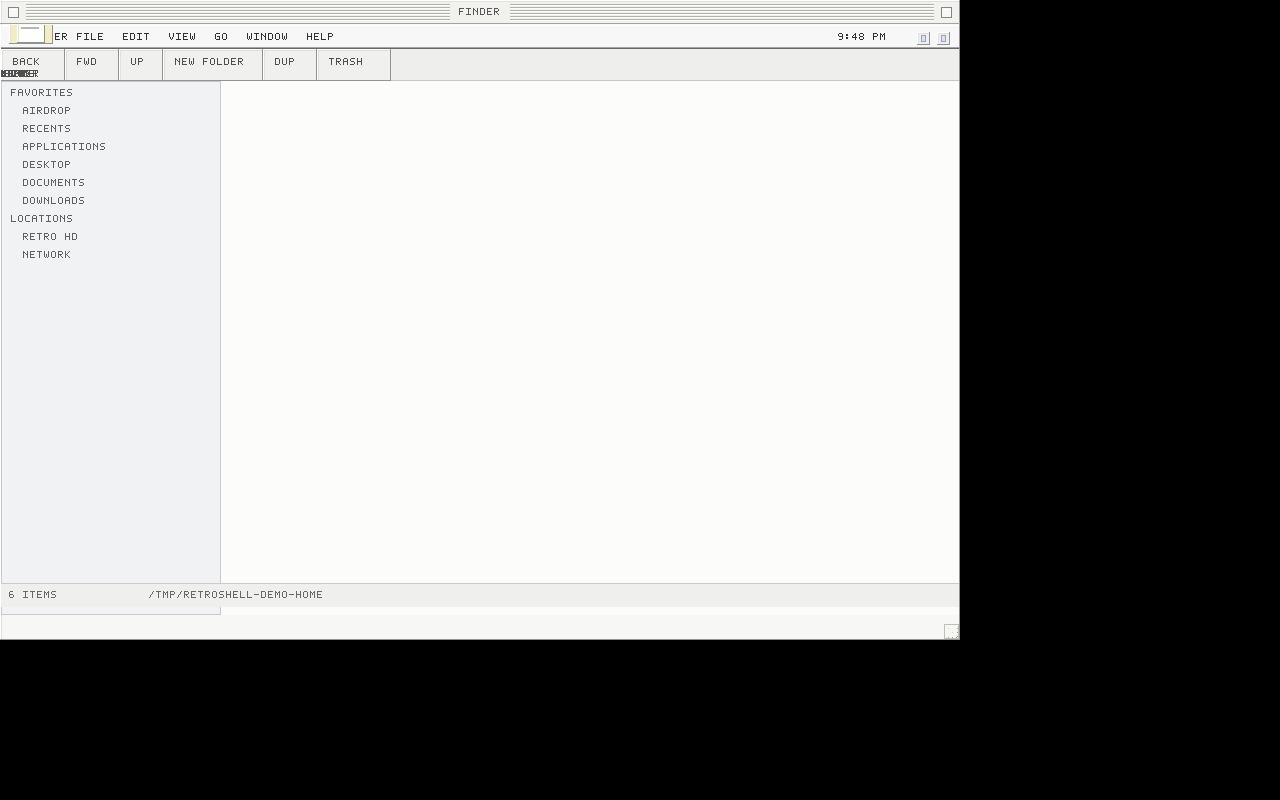
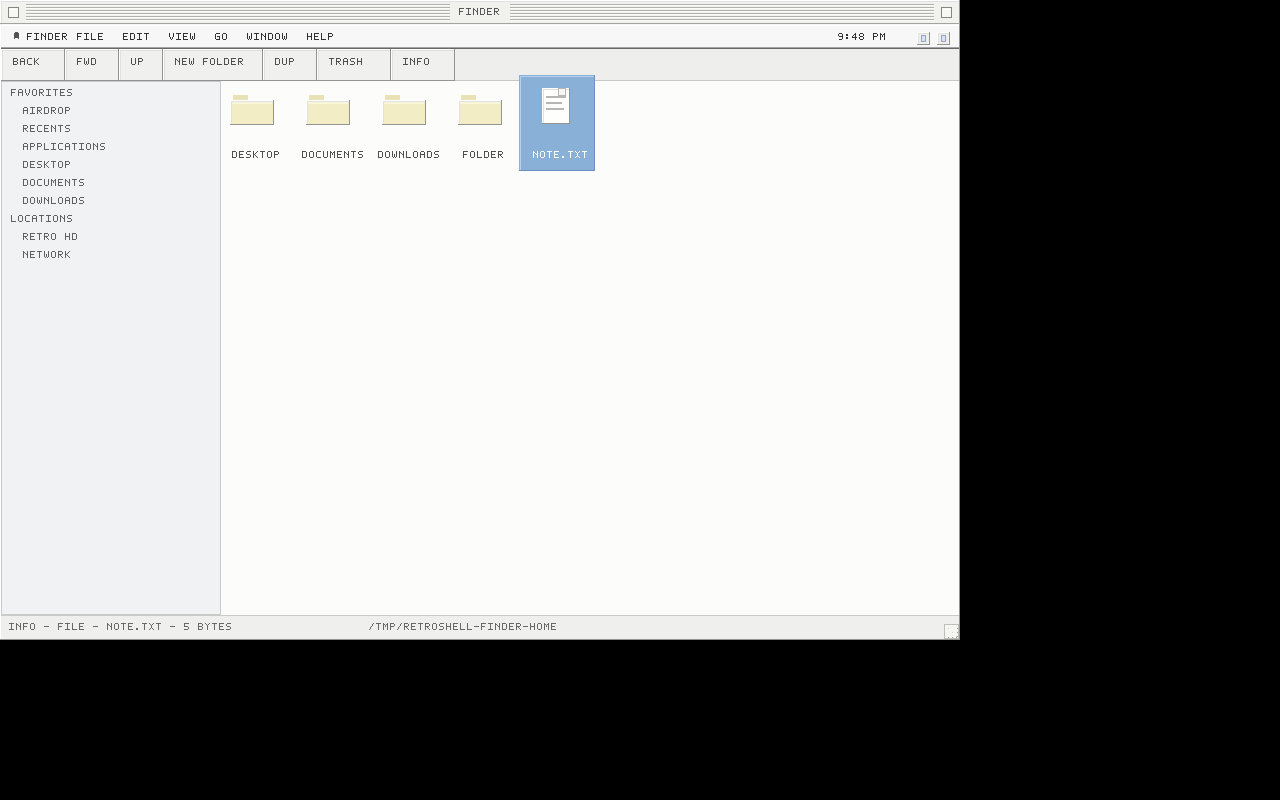
Add Finder Get Info status workflow

diff --git a/apps/finder/src/main.rs b/apps/finder/src/main.rs
@@ -154,6 +154,7 @@ pub struct FinderView {
     last_selected_path: Option<Vec<usize>>,
     back_stack: Vec<PathBuf>,
     forward_stack: Vec<PathBuf>,
+    info_text: Option<String>,
 }
 
 impl Default for FinderView {
@@ -195,6 +196,7 @@ impl FinderView {
         toolbar.add(Box::new(Button::new("NEW FOLDER")));
         toolbar.add(Box::new(Button::new("DUP")));
         toolbar.add(Box::new(Button::new("TRASH")));
+        toolbar.add(Box::new(Button::new("INFO")));
 
         let mut view = FinderView {
             state: WidgetState::new(),
@@ -206,12 +208,14 @@ impl FinderView {
             last_selected_path: None,
             back_stack: Vec::new(),
             forward_stack: Vec::new(),
+            info_text: None,
         };
         view.reload_directory();
         view
     }
 
     pub fn reload_directory(&mut self) {
+        self.info_text = None;
         self.file_grid.items.clear();
         if let Ok(mut entries) = file_ops::list_directory(&self.current_path) {
             entries.sort_by(|left, right| {
@@ -247,8 +251,9 @@ impl FinderView {
         } else {
             format!("{item_count} items")
         };
+        let summary = self.info_text.as_deref().unwrap_or(&count_text).to_string();
         self.status_bar
-            .add_item(&count_text, StatusBarAlignment::Left, 140.0);
+            .add_item(&summary, StatusBarAlignment::Left, 360.0);
         self.status_bar.add_item(
             &self.current_path.display().to_string(),
             StatusBarAlignment::Left,
@@ -338,6 +343,7 @@ impl FinderView {
             3 => self.create_new_folder(),
             4 => self.duplicate_selected(),
             5 => self.move_selected_to_trash(),
+            6 => self.show_selected_info(),
             _ => false,
         }
     }
@@ -379,6 +385,33 @@ impl FinderView {
             true
         } else {
             false
+        }
+    }
+
+    fn show_selected_info(&mut self) -> bool {
+        let Some(path) = self.selected_path() else {
+            self.info_text = Some("INFO - NO SELECTION".to_string());
+            self.refresh_status_bar();
+            return false;
+        };
+
+        match file_ops::get_file_info(&path) {
+            Ok(info) => {
+                let kind = if info.is_dir { "FOLDER" } else { "FILE" };
+                let size = if info.is_dir {
+                    "FOLDER".to_string()
+                } else {
+                    format!("{} BYTES", info.size)
+                };
+                self.info_text = Some(format!("INFO - {kind} - {} - {size}", info.name));
+                self.refresh_status_bar();
+                true
+            }
+            Err(err) => {
+                self.info_text = Some(format!("INFO FAILED - {err}"));
+                self.refresh_status_bar();
+                false
+            }
         }
     }
 
@@ -444,8 +477,12 @@ impl Widget for FinderView {
             .file_grid
             .layout(LayoutConstraint::tight(Size::new(grid_w, content_h)));
 
-        self.status_bar
-            .set_rect(Rect::new(r.x, r.y + content_h, r.width, status_h));
+        self.status_bar.set_rect(Rect::new(
+            r.x,
+            r.y + toolbar_h + content_h,
+            r.width,
+            status_h,
+        ));
         let _ = self
             .status_bar
             .layout(LayoutConstraint::tight(Size::new(r.width, status_h)));
@@ -491,6 +528,10 @@ impl Widget for FinderView {
                         self.duplicate_selected();
                         return EventResult::Handled;
                     }
+                    KeyCode::I => {
+                        self.show_selected_info();
+                        return EventResult::Handled;
+                    }
                     _ => {}
                 }
             } else if *key == KeyCode::Enter {
@@ -523,8 +564,12 @@ impl Widget for FinderView {
 
         let mut result = self.sidebar.handle_event(event);
         if let EventResult::Ignored = result {
+            let previous_selection = self.selected_path();
             result = self.file_grid.handle_event(event);
             if matches!(result, EventResult::Handled) {
+                if self.selected_path() != previous_selection {
+                    self.info_text = None;
+                }
                 self.refresh_status_bar();
             }
         }
@@ -782,5 +827,76 @@ mod tests {
             .any(|item| item.label == "note copy.txt"));
 
         fs::remove_dir_all(root).unwrap();
+    }
+
+    #[test]
+    fn finder_get_info_reports_selected_file_metadata() {
+        let root = temp_finder_root();
+        fs::create_dir_all(&root).unwrap();
+        fs::write(root.join("note.txt"), "hello").unwrap();
+
+        let mut view = FinderView::new();
+        view.set_current_path(root.clone());
+        view.layout(LayoutConstraint::tight(Size::new(960.0, 640.0)));
+        let note = view
+            .file_grid
+            .items
+            .iter_mut()
+            .find(|item| item.label == "note.txt")
+            .expect("note is listed");
+        note.selected = true;
+
+        let handled = view.handle_event(&Event::KeyDown {
+            key: KeyCode::I,
+            modifiers: Modifiers {
+                meta: true,
+                ..Modifiers::NONE
+            },
+        });
+
+        assert!(matches!(handled, EventResult::Handled));
+        assert_eq!(
+            view.status_bar.items[0].text,
+            "INFO - FILE - note.txt - 5 BYTES"
+        );
+
+        fs::remove_dir_all(root).unwrap();
+    }
+
+    #[test]
+    fn finder_toolbar_info_uses_same_metadata_status() {
+        let root = temp_finder_root();
+        fs::create_dir_all(&root).unwrap();
+        fs::create_dir_all(root.join("Folder")).unwrap();
+
+        let mut view = FinderView::new();
+        view.set_current_path(root.clone());
+        view.layout(LayoutConstraint::tight(Size::new(960.0, 640.0)));
+        let folder = view
+            .file_grid
+            .items
+            .iter_mut()
+            .find(|item| item.label == "Folder")
+            .expect("folder is listed");
+        folder.selected = true;
+
+        let handled = click_toolbar_button(&mut view, 6);
+
+        assert!(matches!(handled, EventResult::Handled));
+        assert_eq!(
+            view.status_bar.items[0].text,
+            "INFO - FOLDER - Folder - FOLDER"
+        );
+
+        fs::remove_dir_all(root).unwrap();
+    }
+
+    #[test]
+    fn finder_status_bar_sits_below_content() {
+        let mut view = FinderView::new();
+
+        view.layout(LayoutConstraint::tight(Size::new(960.0, 640.0)));
+
+        assert_eq!(view.status_bar.rect().y, 616.0);
     }
 }

diff --git a/STATUS.md b/STATUS.md
@@ -2,33 +2,31 @@
 
 ## Summary
 
-RetroShell is a working native Rust prototype, not a complete desktop environment yet. Current work has a `wgpu` rendered shell window, Classic-inspired desktop surface, interactive menu bar, desktop icons, first-party app foundations, and managed Finder-style shell windows with focus/raise, active-window close, titlebar close/zoom controls, View-menu fullscreen, drag, resize, desktop folder icons opening filesystem-backed shell windows, and child folder windows from managed shell windows.
+RetroShell is a working native Rust prototype, not a complete desktop environment yet. Current work has a `wgpu` rendered shell window, Classic-inspired desktop surface, interactive menu bar, desktop icons, first-party app foundations, managed Finder-style shell windows, focus/raise behavior, active-window close, titlebar close/zoom controls, View-menu fullscreen, drag, resize, desktop folder icons opening filesystem-backed shell windows, and child folder windows managed by the shell.
 
-Finder has sidebar/icon-grid foundations, sorted directory listing, status/path bar, visible Back/Forward/Up controls, folder entry, parent-folder navigation, back/forward history, visible New Folder/Duplicate/Trash controls, and file operation helpers.
+Finder has sidebar/icon-grid foundations, sorted directory listing, status/path bar, visible Back/Forward/Up controls, folder entry, parent-folder navigation, back/forward history, visible New Folder/Duplicate/Trash controls, file operation helpers, and a working Get Info path through Cmd-I and the `INFO` toolbar button. The VM-smoked UI shows selected-file metadata in the status bar.
 
-TextEdit has real document flow and editing foundations: open an optional document path, edit native multiline text, save to disk, New/Save toolbar actions, Cmd-N/Cmd-S, saved/edited status, undo/redo history, and baseline whole-document copy/cut/paste/select-all.
+TextEdit has real document-flow foundations: open an optional document path, edit native multiline text, save to disk, New/Save toolbar actions, Cmd-N/Cmd-S, saved/edited status, undo/redo history, and baseline whole-document copy/cut/paste/select-all.
 
-Settings has its first real persistent workflow: Light/Dark/System appearance controls load and save `settings.conf` under `RETROSHELL_CONFIG_DIR` or `~/.config/retroshell`, and the VM smoke verifies Dark mode preference persistence.
+Settings has the first persistent workflow: Light/Dark/System appearance controls load and save `settings.conf` under `RETROSHELL_CONFIG_DIR` or `~/.config/retroshell`, and VM smoke verifies Dark mode preference persistence.
 
-Native dark mode has a first real runtime path: RetroSDK reads the same `settings.conf` preference and renders shared window chrome, menus, labels, buttons, text fields, lists, sidebars, split panels, toolbars, and status bars with dark-aware colors.
+Native dark mode has its first runtime path: RetroSDK reads the same `settings.conf` preference and renders shared window chrome, menus, labels, buttons, text fields, lists, sidebars, split panels, toolbars, and status bars with dark-aware colors.
 
-Terminal has a real PTY-backed output path with async repaint, resize propagation, scrollback navigation, and baseline Cmd-C/Cmd-V clipboard behavior.
+Terminal has a real PTY-backed output path, async repaint, resize propagation, scrollback navigation, and baseline Cmd-C/Cmd-V clipboard behavior.
 
-App Store has a first native package-manager backed workflow: it detects host Linux/BSD package managers and runs read-only package searches against the detected backend.
+App Store has the first native package-manager backed workflow: it detects host Linux/BSD package managers and runs read-only package searches against the detected backend.
 
-Definition of done remains a full desktop environment: working Finder, TextEdit, Settings, Terminal, package-manager backed App Store, native dark mode, compositor/session path, HDR, VRR, and real application/game validation including Doom video evidence with audio.
+Definition of done remains a full desktop environment: working Finder, TextEdit, Settings, Terminal, package-manager backed App Store, native dark mode, compositor/session path, HDR, VRR, and Doom video evidence with audio in windowed, borderless fullscreen, and exclusive fullscreen modes. That is not complete yet.
 
-## Workspace
+## Component Status
 
-| Crate/App | Path | Status |
-|-----------|------|--------|
-| retro-render | `crates/retro-render/` | Prototype: native `wgpu` rendering works; text, clipping, compositor/display features, HDR, VRR remain incomplete. |
-| retro-kit | `crates/retro-kit/` | Prototype: core widget layout exists; polished accessibility, drag/drop, focus visuals, menus, theme coverage remain incomplete. |
+| Component | Path | Status |
+| --- | --- | --- |
 | retro-shell | `crates/retro-shell/` | Prototype: rendered desktop, menu bar, shell services, managed shell windows, close, zoom, fullscreen, drag, resize, desktop folder icon launch, and child folder opening exist; focus visuals, minimize, sessions, app lifecycle, compositor integration remain incomplete. |
 | retro-bus | `crates/retro-bus/` | Foundation: local transport primitives exist; broader service integration remains incomplete. |
-| retro-sdk | `crates/retro-sdk/` | First-party app runtime works for basic windows/menus/widgets, repaints after async widget updates, and consumes `appearance=dark` for shared native rendering; app lifecycle, dialogs, platform clipboard, platform services, complete theme tokens, and polished text rendering remain incomplete. |
-| Finder | `apps/finder/` | In progress: navigation history, visible navigation controls, and file operation helpers exist; contextual menus, drag/drop, trash polish, desktop integration, and multi-window workflows remain incomplete. |
-| Settings | `apps/settings/` | In progress: persistent Light/Dark/System appearance preference works and the SDK consumes it for native dark rendering; broader settings panes, input/display controls, HDR/VRR controls remain incomplete. |
+| retro-sdk | `crates/retro-sdk/` | First-party app runtime works for basic windows/menus/widgets, repaints async widget updates, consumes `appearance=dark` shared native rendering; app lifecycle, dialogs, platform clipboard, platform services, complete theme tokens, and polished text rendering remain incomplete. |
+| Finder | `apps/finder/` | In progress: navigation history, visible navigation controls, file operation helpers, and Get Info status metadata exist; contextual menus, drag/drop, trash polish, desktop integration, and multi-window workflows remain incomplete. |
+| Settings | `apps/settings/` | In progress: persistent Light/Dark/System appearance preference works and SDK consumes it for native dark rendering; broader settings panes, input/display controls, HDR/VRR controls remain incomplete. |
 | TextEdit | `apps/textedit/` | In progress: opens optional document path, edits text, saves existing files, tracks dirty state, supports undo/redo and baseline whole-document clipboard commands; Save As, file dialogs, selection UI, platform clipboard, and text wrapping/scrolling polish remain incomplete. |
 | Terminal | `apps/terminal/` | In progress: PTY launch/output, resize propagation, scrollback navigation, and baseline clipboard shortcuts work; selection UI, persistent sessions, robust shell lifecycle, and polished tabs remain incomplete. |
 | App Store | `apps/appstore/` | In progress: detects APT/DNF/Pacman/pkg/apk/zypper/brew, runs read-only package searches, and renders results; install/remove/update flows, privilege prompts, and transaction logs remain incomplete. |
@@ -37,25 +35,25 @@ Definition of done remains a full desktop environment: working Finder, TextEdit,
 
 - `cargo fmt --all -- --check`
 - `cargo check --workspace --all-targets`
-- `cargo test --workspace -q` (65 tests)
+- `cargo test --workspace -q` (68 tests)
 - `cargo clippy --workspace --all-targets -- -D warnings`
-- Linux VM/Xvfb/Mesa Vulkan llvmpipe smoke: `retro-shell` starts 1280x800, accepts pointer interaction, toggles active Finder-style managed shell window into fullscreen through the View menu, opens Home into a managed folder window, opens a child folder inside the initial managed folder window, and captures `docs/screenshots/current-retroshell-desktop.png`.
-- Linux VM/Xvfb/Mesa Vulkan llvmpipe smoke: `finder` starts against a demo home directory, renders visible Back/Forward/Up and file-operation controls, creates New Folder from the toolbar, refreshes path/status display, and captures `docs/screenshots/current-finder.png`.
-- Linux VM/Xvfb/Mesa Vulkan llvmpipe smoke: `textedit` opens a document path, renders edit controls, and captures `docs/screenshots/current-textedit.png`.
+- Linux VM/Xvfb/Mesa Vulkan llvmpipe smoke: `retro-shell` renders the desktop, handles menu interaction/window controls/drag/resize/fullscreen, opens a managed folder window, and captures `docs/screenshots/current-retroshell-desktop.png`.
+- Linux VM/Xvfb smoke: `finder` starts against a demo home directory, selects `note.txt`, triggers the `INFO` toolbar action, renders `INFO - FILE - NOTE.TXT - 5 BYTES` in the status bar, and captures `docs/screenshots/current-finder.png`.
+- Linux VM/Xvfb smoke: `textedit` opens a document path, renders edit controls, and captures `docs/screenshots/current-textedit.png`.
 - Linux VM/Xvfb/Mesa Vulkan llvmpipe smoke: `settings` clicks Dark appearance, verifies `appearance=dark`, renders selected mode/status UI, and captures `docs/screenshots/current-settings.png`.
 - Linux VM/Xvfb/Mesa Vulkan llvmpipe smoke: `settings` launches with `appearance=dark`, renders dark native chrome/controls, and captures `docs/screenshots/current-dark-mode-settings.png`.
-- Linux VM/Xvfb/Mesa Vulkan llvmpipe smoke: `terminal` launches a PTY-backed shell script, consumes async output, renders live terminal text, and captures `docs/screenshots/current-terminal.png`.
-- Linux VM/Xvfb/Mesa Vulkan llvmpipe smoke: `appstore` detects APT, searches for `doom`, renders package-manager results, and captures `docs/screenshots/current-appstore.png`.
+- Linux VM/Xvfb smoke: `terminal` launches a PTY-backed shell script, consumes async output, renders live terminal text, and captures `docs/screenshots/current-terminal.png`.
+- Linux VM/Xvfb smoke: `appstore` detects APT, searches for `doom`, renders package-manager results, and captures `docs/screenshots/current-appstore.png`.
 
 ## Next Milestones
 
 1. Finish shell window management: focus rings, multiple real app surfaces, minimize controls, modal dialogs, persisted placement.
-2. Make Finder real: add contextual menus, drag/drop, trash UI polish, desktop integration, polished multi-window workflows.
+2. Make Finder real: contextual menus, drag/drop, trash UI polish, desktop integration, polished multi-window workflows.
 3. Make TextEdit real: Save As/file dialogs, selection UI, platform clipboard, text wrapping/scrolling polish.
 4. Make Terminal robust: selection UI, platform clipboard, shell lifecycle handling, tab controls, scrollback UI, shell session persistence.
 5. Make Settings persistent beyond appearance: input, display, package-manager settings, future HDR/VRR controls.
-6. Add App Store: package manager install/remove/update flows, privilege prompts, transaction logs.
+6. Finish App Store package manager flows: install/remove/update, privilege prompts, transaction logs, backend-specific error handling.
 7. Finish native dark mode: end-to-end token coverage, live switching polish, app-specific asset/icon compliance, contrast validation.
-8. Build compositor/session path: Wayland session behavior, external app surfaces, multi-monitor, HiDPI, input methods, clipboard, accessibility.
-9. Add display targets: HDR metadata/color pipeline and VRR frame pacing.
-10. Produce release evidence: video with audio of Doom in windowed, borderless fullscreen, and exclusive fullscreen modes.
+8. Build compositor/session path: Wayland session behavior, external app surfaces, multi-monitor, HiDPI, startup integration.
+9. Build display pipeline goals: HDR metadata/color pipeline, VRR frame pacing, fullscreen mode policy.
+10. Produce release evidence: Doom running with audio/video in windowed, borderless fullscreen, and exclusive fullscreen modes.

diff --git a/README.md b/README.md
@@ -18,13 +18,13 @@ Every major UI/UX change should refresh current screenshots. Screenshots live in
 
 ### Current Implementation
 
-Captured from a Linux VM/Xvfb/Mesa smoke run after the native `wgpu` desktop filled a 1280x800 surface, accepted menu and pointer interaction, rendered original desktop icons, opened managed Finder-style shell windows, opened desktop folders into filesystem-backed shell windows, opened child folder windows from managed shell windows, raised/focused windows, closed active windows, used titlebar close/zoom controls, toggled fullscreen through the View menu, dragged/resized windows, and rendered the grow box.
+Captured from a Linux VM/Xvfb/Mesa smoke run after the native `wgpu` desktop filled a 1280x800 surface, accepted menu pointer interaction, rendered desktop icons, opened managed Finder-style shell windows, opened folder-backed shell windows, raised/focused windows, closed active windows, used titlebar close/zoom controls, toggled fullscreen through the View menu, dragged/resized windows, and rendered the grow box.
 
 ![Current RetroShell desktop](docs/screenshots/current-retroshell-desktop.png)
 
 ### Finder
 
-Captured from a Linux VM/Xvfb smoke run against a demo home directory after Finder rendered status/path display, sorted directory contents, folder entry, visible Back/Forward/Up controls, visible New Folder/Duplicate/Trash controls, navigation history, and New Folder from the toolbar.
+Captured from a Linux VM/Xvfb smoke run against a demo home directory. Finder rendered sidebar/icon-grid browsing, sorted directory contents, status/path display, navigation controls, file-operation toolbar controls, and the `INFO` toolbar action showing selected-file metadata.
 
 ![Current Finder app](docs/screenshots/current-finder.png)
 
@@ -36,39 +36,39 @@ Captured from a Linux VM/Xvfb smoke run after TextEdit opened a real document pa
 
 ### Settings
 
-Captured from a Linux VM/Xvfb smoke run after Settings clicked the Dark appearance control, persisted `appearance=dark`, and refreshed the selected mode/status UI.
+Captured from a Linux VM/Xvfb smoke run after Settings clicked the Dark appearance control, persisted `appearance=dark`, and rendered the selected mode/status UI.
 
 ![Current Settings app](docs/screenshots/current-settings.png)
 
 ### Native Dark Mode
 
-Captured from a Linux VM/Xvfb smoke run after the SDK read `appearance=dark` from `settings.conf` and rendered Settings with dark window chrome, menus, controls, lists, and text surfaces.
+Captured from a Linux VM/Xvfb/Mesa smoke run after launching Settings with `appearance=dark`; RetroSDK rendered shared native chrome and controls with dark-aware colors.
 
 ![Current dark mode Settings app](docs/screenshots/current-dark-mode-settings.png)
 
 ### Terminal
 
-Captured from a Linux VM/Xvfb smoke run after Terminal launched a real PTY-backed shell script, consumed asynchronous output, repainted the native terminal surface, and rendered the live output.
+Captured from a Linux VM/Xvfb smoke run after Terminal launched a real PTY-backed shell script, consumed asynchronous output, repainted the native terminal surface, and rendered live output.
 
 ![Current Terminal app](docs/screenshots/current-terminal.png)
 
 ### App Store
 
-Captured from a Linux VM/Xvfb smoke run after App Store detected the host `APT` backend, ran a real package-manager search for `doom`, and rendered package results.
+Captured from a Linux VM/Xvfb smoke run after App Store detected the host `APT` backend, ran a real read-only package-manager search for `doom`, and rendered package results.
 
 ![Current App Store app](docs/screenshots/current-appstore.png)
 
 ## Current State
 
-RetroShell currently builds and launches a native rendered desktop surface, menu strip, desktop icons, app bundle labels, first-party apps wired through RetroKit/RetroSDK, and first-pass managed shell windows with close, zoom, fullscreen, drag, and resize behavior. Desktop Home/Hard Disk/Trash icons open folder-backed shell windows, and folder icons inside managed shell windows open child folder windows.
+RetroShell currently builds and launches a native rendered desktop surface with a menu strip, desktop icons, app bundle labels, first-party apps wired through RetroKit/RetroSDK, and first-pass managed shell window close, zoom, fullscreen, drag, and resize behavior. Desktop Home/Hard Disk/Trash icons open folder-backed shell windows, and folder icons inside managed shell windows open child folder windows.
 
-Finder has directory listing, folder entry, visible navigation controls, parent navigation, back/forward history, file-operation toolbar controls, New Folder/Duplicate/Trash helpers, and VM-smoked path/status display.
+Finder has sidebar/icon-grid browsing, sorted directory listing, folder entry, parent navigation, back/forward history, file-operation toolbar controls, New Folder/Duplicate/Trash helpers, VM-smoked path/status display, and a working `INFO` action that reports selected file/folder metadata in the status bar.
 
-TextEdit opens an optional document path passed on the command line, edits through a native multiline text field, saves back to disk, supports Cmd-N/Cmd-S, supports Cmd-Z/Shift-Cmd-Z undo/redo, exposes baseline whole-document copy/cut/paste/select-all shortcuts, and shows toolbar actions for New/Save/Undo/Redo/Copy/Paste.
+TextEdit opens an optional document path passed on the command line, edits through the native multiline text field, saves back to disk, supports Cmd-N/Cmd-S, supports Cmd-Z/Shift-Cmd-Z undo/redo, exposes baseline whole-document copy/cut/paste/select-all shortcuts, and shows toolbar actions for New/Save/Undo/Redo/Copy/Paste.
 
-Settings loads and saves `settings.conf` under `RETROSHELL_CONFIG_DIR` or `~/.config/retroshell`, exposes Light/Dark/System controls, persists changes immediately, and reports the active mode. The SDK consumes that same preference and renders shared native chrome/controls with a dark appearance when `appearance=dark`.
+Settings loads and saves `settings.conf` under `RETROSHELL_CONFIG_DIR` or `~/.config/retroshell`, exposes Light/Dark/System controls, persists changes immediately, and reports the active mode. RetroSDK consumes the same preference and renders shared native chrome/controls in dark appearance when `appearance=dark`.
 
-Terminal launches a real PTY, propagates layout resize to the terminal grid and PTY, consumes async PTY output with runtime repaint, supports scrollback navigation, and wires Cmd-C/Cmd-V to the in-process clipboard baseline.
+Terminal launches a real PTY, propagates layout resize to the terminal grid and PTY, consumes async PTY output through runtime repaint, supports scrollback navigation, and wires Cmd-C/Cmd-V to the in-process clipboard baseline.
 
 App Store launches as a first-party app, detects Linux/BSD package managers, and runs read-only package searches through the detected backend. Install/remove/update transactions and privilege handling remain future work.
 
@@ -78,15 +78,15 @@ This is still foundation work, not a polished full desktop environment.
 
 - `cargo fmt --all -- --check`
 - `cargo check --workspace --all-targets`
-- `cargo test --workspace -q` (65 tests)
+- `cargo test --workspace -q` (68 tests)
 - `cargo clippy --workspace --all-targets -- -D warnings`
-- Linux VM/Xvfb/Mesa smoke: `retro-shell` starts at 1280x800 and captures `docs/screenshots/current-retroshell-desktop.png`.
-- Linux VM/Xvfb/Mesa smoke: `finder` starts against a demo home directory, creates New Folder from the toolbar, refreshes path/status display, and captures `docs/screenshots/current-finder.png`.
-- Linux VM/Xvfb/Mesa smoke: `textedit` opens a document path, renders edit controls, and captures `docs/screenshots/current-textedit.png`.
-- Linux VM/Xvfb/Mesa smoke: `settings` clicks Dark appearance, verifies `appearance=dark`, and captures `docs/screenshots/current-settings.png`.
+- Linux VM/Xvfb/Mesa smoke: `retro-shell` renders the desktop, manages shell windows, handles menu interaction/window controls/drag/resize/fullscreen, and captures `docs/screenshots/current-retroshell-desktop.png`.
+- Linux VM/Xvfb smoke: `finder` starts against a demo home directory, selects a real file, triggers the `INFO` toolbar action, renders selected-file metadata in the status bar, and captures `docs/screenshots/current-finder.png`.
+- Linux VM/Xvfb smoke: `textedit` opens a document path, renders edit controls, and captures `docs/screenshots/current-textedit.png`.
+- Linux VM/Xvfb/Mesa smoke: `settings` clicks Dark appearance, verifies `appearance=dark`, renders selected mode/status UI, and captures `docs/screenshots/current-settings.png`.
 - Linux VM/Xvfb/Mesa smoke: `settings` launches with `appearance=dark`, renders dark native chrome/controls, and captures `docs/screenshots/current-dark-mode-settings.png`.
-- Linux VM/Xvfb/Mesa smoke: `terminal` launches a PTY-backed shell script, renders live output, and captures `docs/screenshots/current-terminal.png`.
-- Linux VM/Xvfb/Mesa smoke: `appstore` detects APT, searches for `doom`, renders package-manager results, and captures `docs/screenshots/current-appstore.png`.
+- Linux VM/Xvfb smoke: `terminal` launches a PTY-backed shell script, renders live output, and captures `docs/screenshots/current-terminal.png`.
+- Linux VM/Xvfb smoke: `appstore` detects APT, searches `doom`, renders package-manager results, and captures `docs/screenshots/current-appstore.png`.
 
 ## Visual Direction
 
@@ -101,7 +101,7 @@ Plenty. The next major work is closing the gap between the current functional pr
 - Dock/application launching: running indicators, focus, lifecycle integration, folders, trash.
 - Native dark mode: complete theme-token coverage, live switching from Settings, dark assets/icons, contrast validation.
 - Text rendering: proper `cosmic-text` rendering, font metrics, clipping, invalidation, visual regression screenshots.
-- App completeness: Finder, Settings, TextEdit, Terminal, package-manager backed App Store need real workflows.
-- Platform integration: Wayland-first shell behavior, input methods, clipboard, accessibility, multi-monitor, HiDPI, packaging, startup sessions.
+- App completeness: Finder, Settings, TextEdit, Terminal, and package-manager backed App Store need complete workflows.
+- Platform integration: Wayland-first shell behavior, input methods, platform clipboard, accessibility, multi-monitor, HiDPI, packaging, startup sessions.
 - Display goals: compositor/session path, HDR metadata/color pipeline, VRR frame pacing.
 - Release evidence: video with audio of Doom running on RetroShell in windowed, borderless fullscreen, and exclusive fullscreen modes.